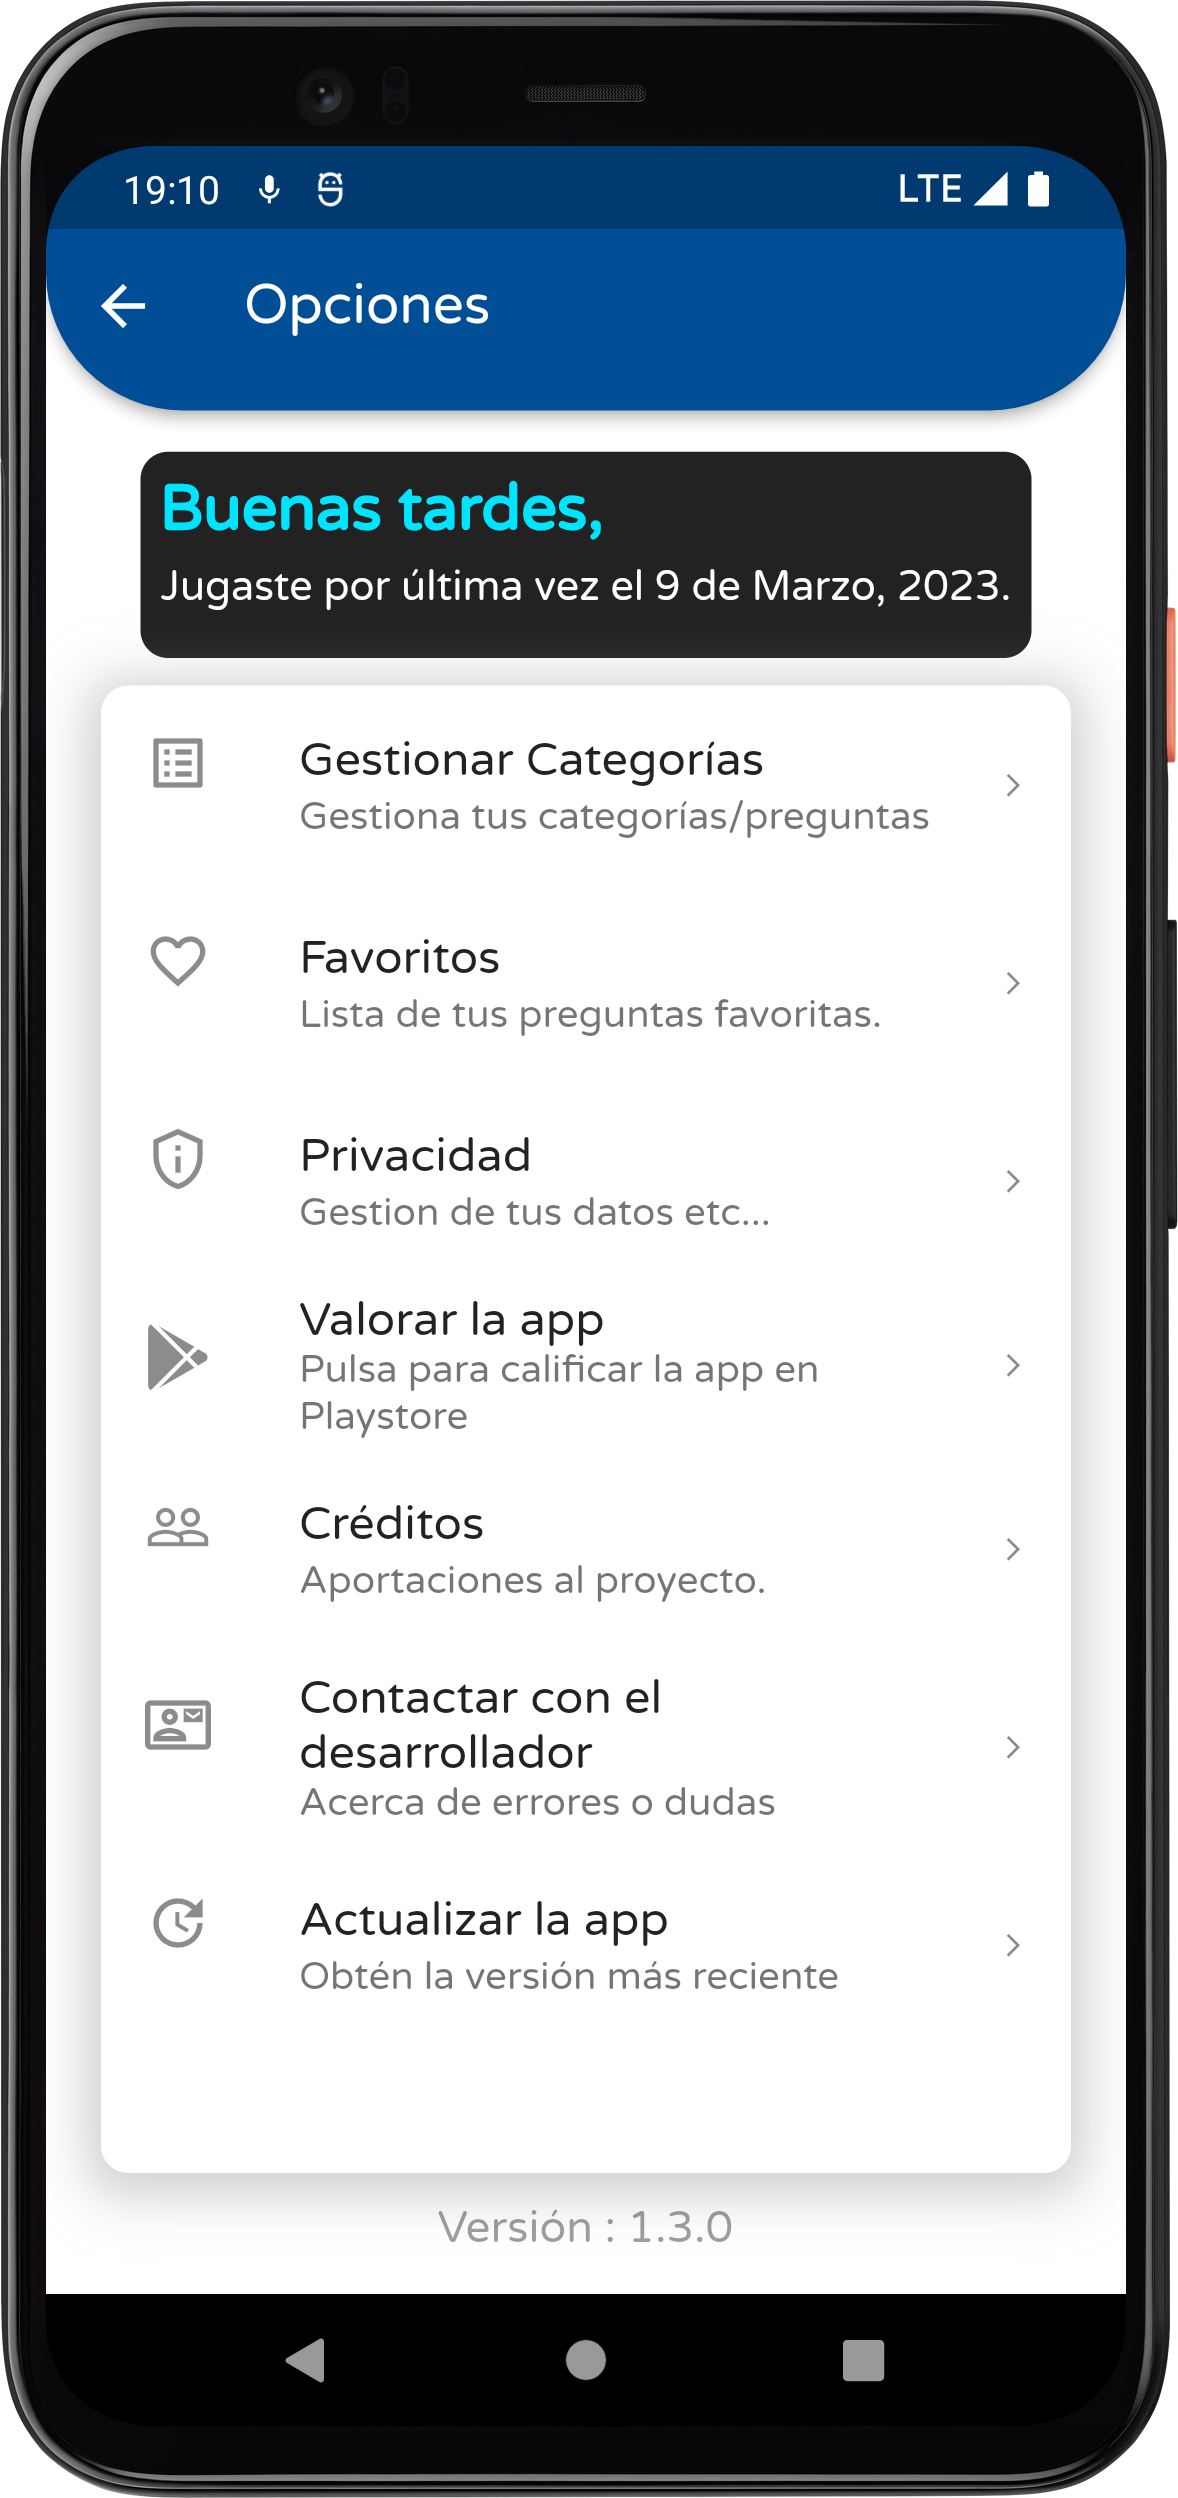
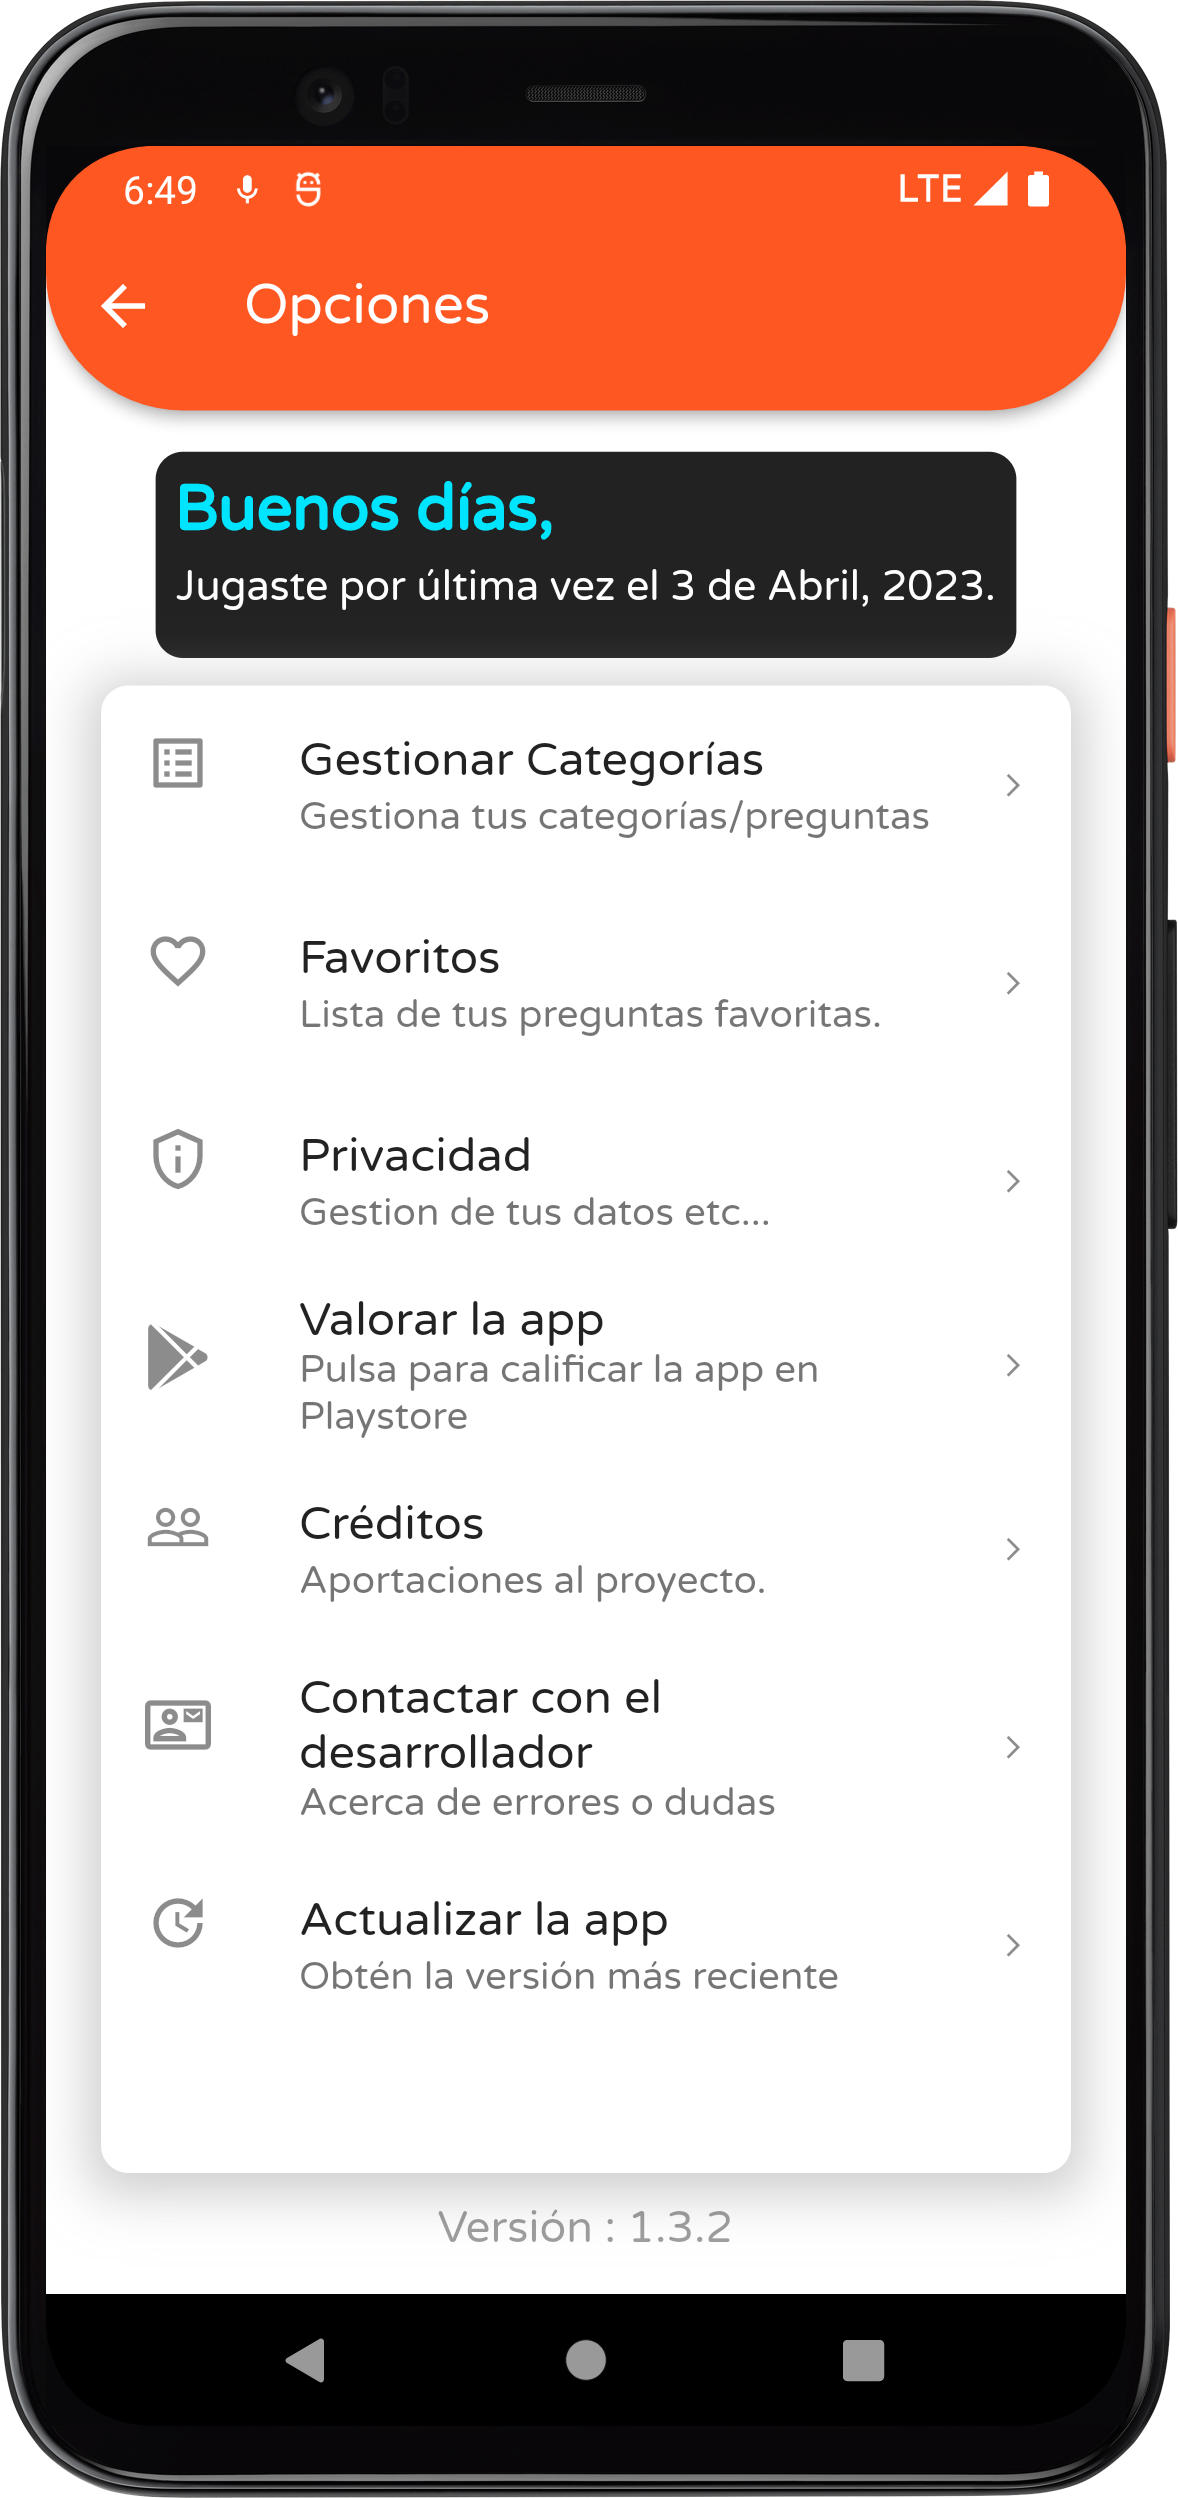
updating the gh-page for v1.3.2

Changed region(s): [[0.0306, 0.0312, 0.9779, 0.281]]

diff --git a/docs/index.html b/docs/index.html
@@ -20,7 +20,7 @@
         <a class="btn">Descargar</a>
         <div class="submenu">
             <a href="https://play.google.com/store/apps/details?id=com.devdaumienebi.yonunca">Android (Playstore)</a>
-            <a href="https://github.com/daumienebi/yo_nunca/releases/download/v1.3.1/app-release.apk">Android (Descargar APK v1.3.1)<i></i></a>
+            <a href="https://github.com/daumienebi/yo_nunca/releases/download/v1.3.2/app-release.apk">Android (Descargar APK v1.3.2)<i></i></a>
             <a href="#">iOS <i>(No Disponible)</i></a>
         </div>
         </div>

diff --git a/docs/policy.html b/docs/policy.html
@@ -14,8 +14,8 @@
                 padding: 10px;
                 font-family: 'Open Sans','Helvetica Neue',Helvetica, sans-serif;
                 line-height: 1.45;
-                color: #ffff;
-                background-color: #004e95;
+                color: #000000;
+                background-color: #FF8A65;
             }
         </style>
     </head>

diff --git a/docs/styles.css b/docs/styles.css
@@ -8,7 +8,7 @@ body {
 }
 header {
     color: #FFFFFF;
-    background-color: #004e95;
+    background-color: #FF5722;
     padding: 80px 0;
     text-align: center;
 }
